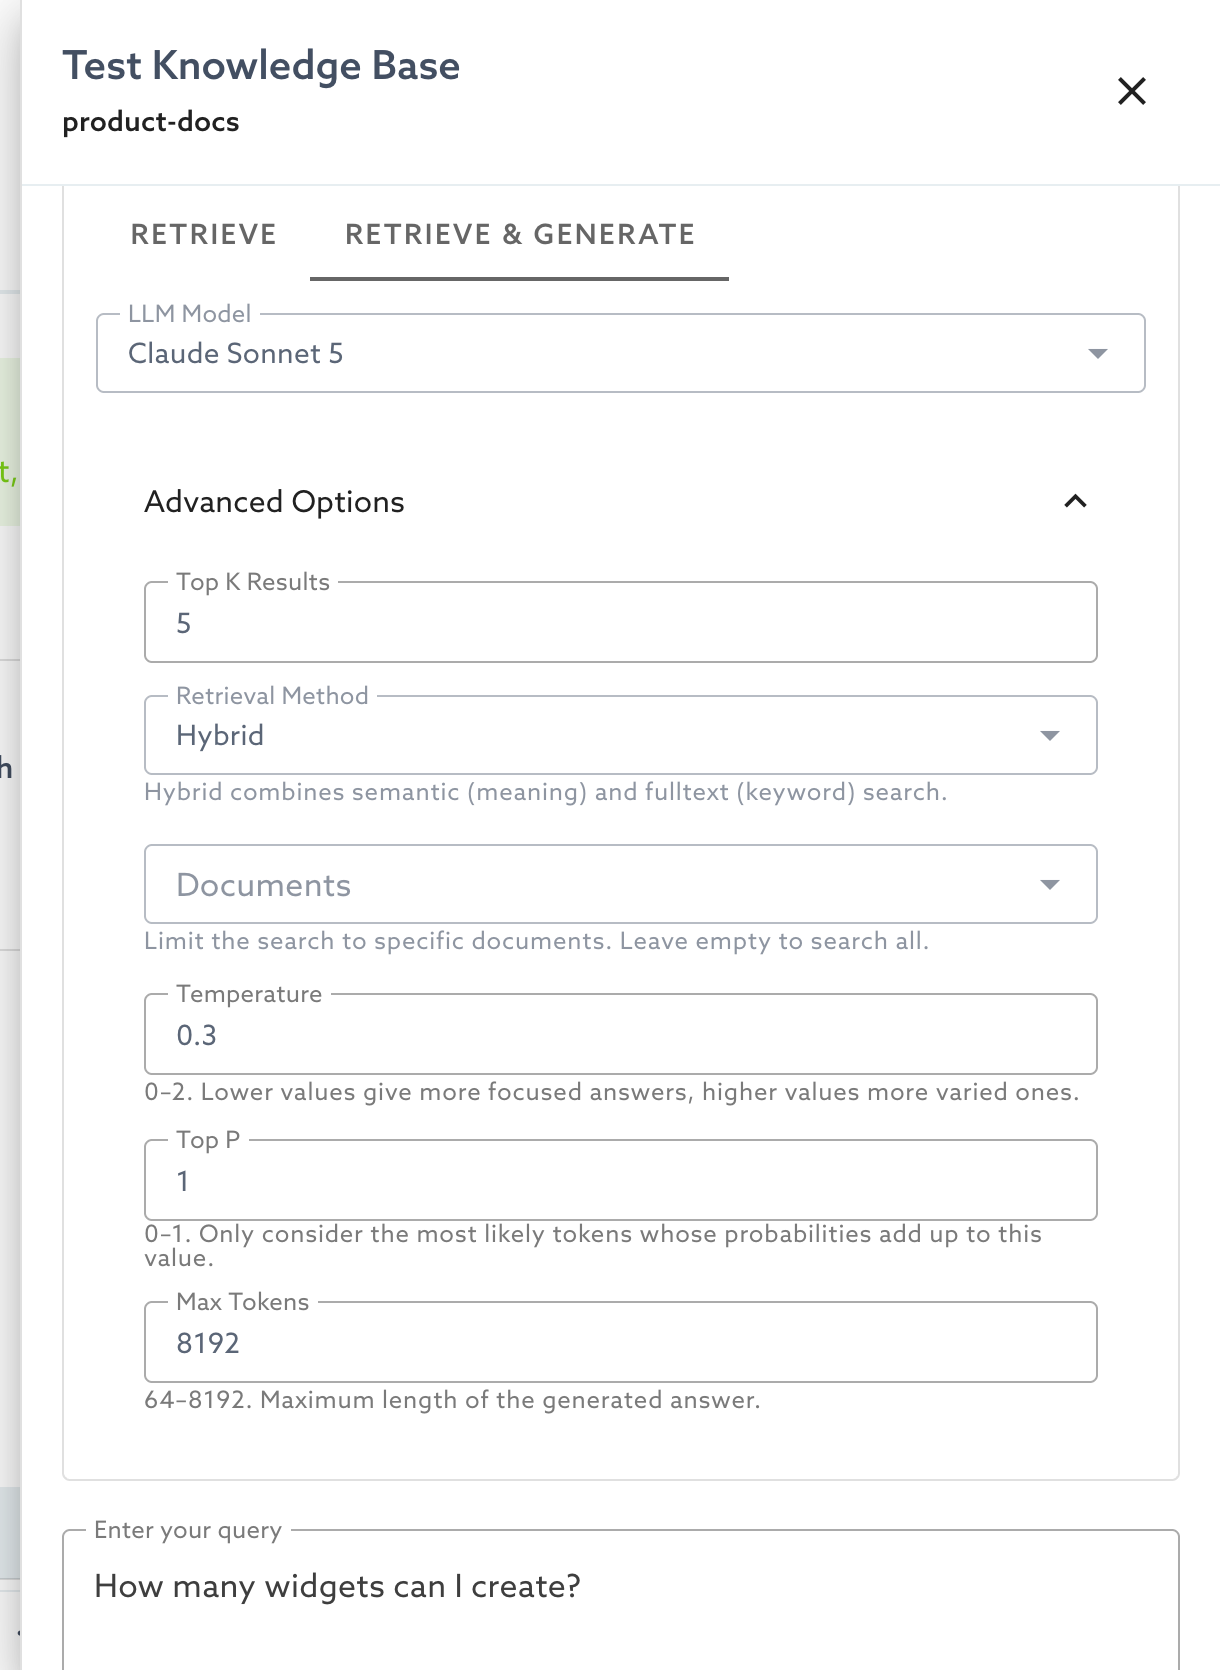
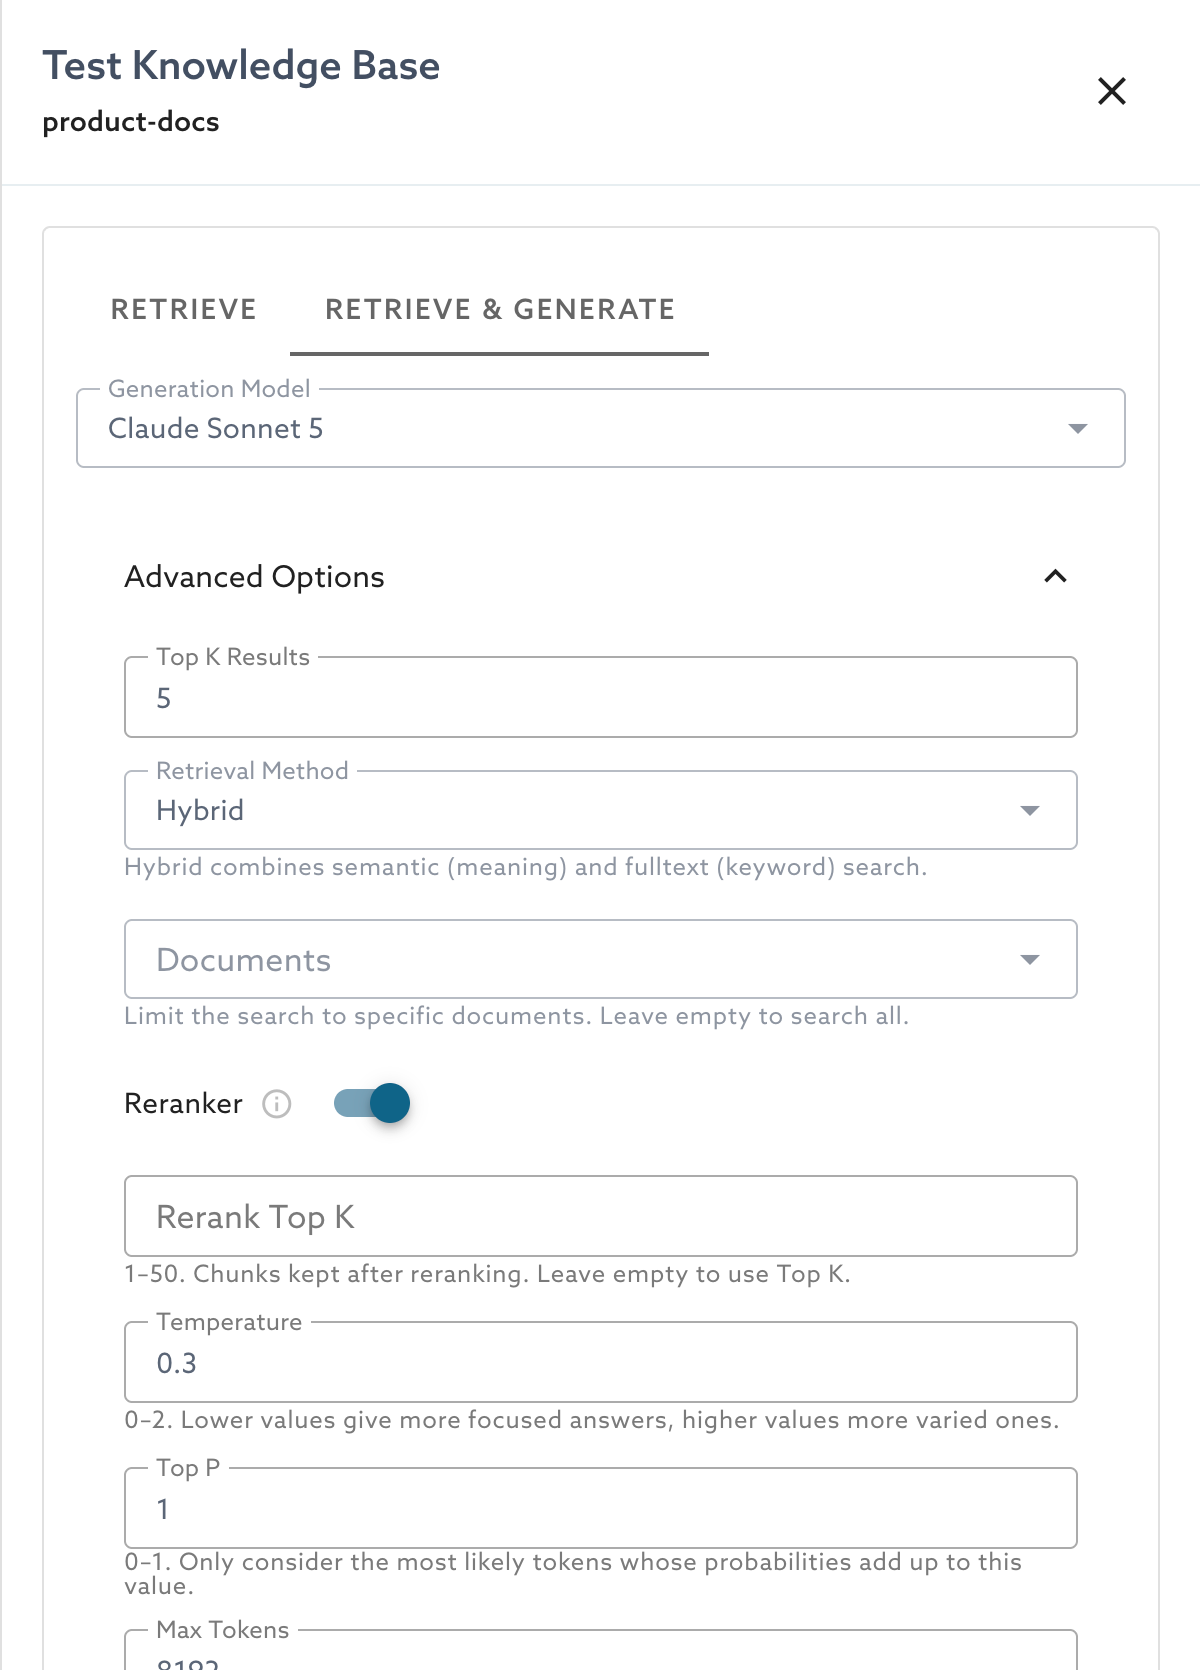
DOCS-6592 Recapture AI Retrieval screenshots
Replace six outdated portal screenshots with captures from the
current test environment and add two new ones: the chunk size and
overlap fields, and the rest of the Advanced Options in the Test
drawer. Update the alt texts and the open-items comment.

diff --git a/mariadb-cloud/cloud-ai/ai-retrieval/document-knowledge-bases.md b/mariadb-cloud/cloud-ai/ai-retrieval/document-knowledge-bases.md
@@ -9,7 +9,7 @@ hidden: true
 
 <!-- DRAFT for DOCS-6592. Hidden until the Public Preview launch. Open items are marked TODO. -->
 
-<!-- TODO: recapture the screenshots with the portal labels of 2026-10-19: Generation Model, Base, reranker on by default, JSON in the supported formats, the Reranker and Rerank Top K test options, and the chunk size fields. -->
+<!-- TODO: screenshots were recaptured on 2026-10-20 in the test environment. Recapture ai-retrieval-upload-processing.png and ai-retrieval-chunk-size-fields.png once the environment shows "Base" instead of "Basic" (MCDEV-1484, comment 1143338). -->
 
 # Document Knowledge Bases
 
@@ -27,7 +27,7 @@ A document knowledge base indexes files so that applications can retrieve passag
 6. Optionally, open **Advanced Options** to change the models and the reranker.
 7. Select **Create Knowledge Base**.
 
-<figure><img src="../../.gitbook/assets/ai-retrieval-create-kb.png" alt="The Create Knowledge Base page with a document knowledge base, AWS in Frankfurt, an auto-provisioned vector store, and the Advanced Options expanded."><figcaption><p>The Create Knowledge Base page</p></figcaption></figure>
+<figure><img src="../../.gitbook/assets/ai-retrieval-create-kb.png" alt="The Create Knowledge Base page with a document knowledge base, AWS in Frankfurt, an existing vector store service, and the Advanced Options expanded showing the embedding model, the generation model, and the reranker turned on."><figcaption><p>The Create Knowledge Base page</p></figcaption></figure>
 
 <!-- TODO: recapture this screenshot. It shows the reranker off, but the reranker is on by default in portal 4.13.13. The model names can also change. -->
 
@@ -130,7 +130,9 @@ A parsing strategy controls how AI Retrieval reads a file. A chunking strategy c
 
 Every strategy except Structure-aware shows a **Chunk size (tokens)** field. Fixed-sized and Sentence-based also show a **Chunk overlap (tokens)** field. The default chunk size is 350 tokens and the default overlap is 100 tokens. A chunk size must be at least 128 tokens, and an overlap must be smaller than the chunk size. Cohere embedding models accept chunk sizes up to 350 tokens. When the reranker is on, it reads only the first 512 tokens of each chunk, so the portal warns about larger chunk sizes.
 
-<!-- TODO: capture the chunk size and overlap fields. Source: skysql-ui-client ChunkingFields.vue and src/utils/chunking.ts @ 5356829b; ai-retrieval-cloud chunk_rules.py @ 5393bced. -->
+<figure><img src="../../.gitbook/assets/ai-retrieval-chunk-size-fields.png" alt="The Processing step of the Upload Files dialog with the Fixed-sized chunking strategy selected, showing the Chunk size (tokens) field with a default of 350 and the Chunk overlap (tokens) field with a default of 100."><figcaption><p>The chunk size and overlap fields</p></figcaption></figure>
+
+<!-- Source: skysql-ui-client ChunkingFields.vue and src/utils/chunking.ts @ 5356829b; ai-retrieval-cloud chunk_rules.py @ 5393bced. -->
 
 <figure><img src="../../.gitbook/assets/ai-retrieval-chunking-strategies.png" alt="The chunking strategy list showing the Structure-aware, Fixed-sized, Sentence-based, Recursive, and Semantic options."><figcaption><p>The chunking strategies</p></figcaption></figure>
 
@@ -161,9 +163,9 @@ Open **Advanced Options** to change how a test runs.
 
 The Retrieve & Generate tab also has a **Generation Model** list. Temperature, Top P, Max Tokens, and the model apply only to generated answers.
 
-<!-- TODO: recapture this screenshot. Portal 4.13.13 adds the Reranker and Rerank Top K options. -->
+<figure><img src="../../.gitbook/assets/ai-retrieval-test-options.png" alt="The Test Knowledge Base drawer on the Retrieve and Generate tab, showing the Generation Model list and the expanded Advanced Options: Top K Results, Retrieval Method, Documents, the Reranker toggle turned on, Rerank Top K, Temperature, and Top P."><figcaption><p>Advanced Options of the Retrieve & Generate tab</p></figcaption></figure>
 
-<figure><img src="../../.gitbook/assets/ai-retrieval-test-options.png" alt="The Advanced Options of the Retrieve and Generate tab showing Top K, Retrieval Method, Documents, Temperature, Top P, and Max Tokens."><figcaption><p>Advanced Options of the Retrieve & Generate tab</p></figcaption></figure>
+<figure><img src="../../.gitbook/assets/ai-retrieval-test-options-more.png" alt="The Test Knowledge Base drawer scrolled down to the end of the Advanced Options, showing Rerank Top K, Temperature, Top P, and Max Tokens, followed by the query box and the Test Query button."><figcaption><p>The remaining Advanced Options</p></figcaption></figure>
 
 ## Connect Your Application
 
